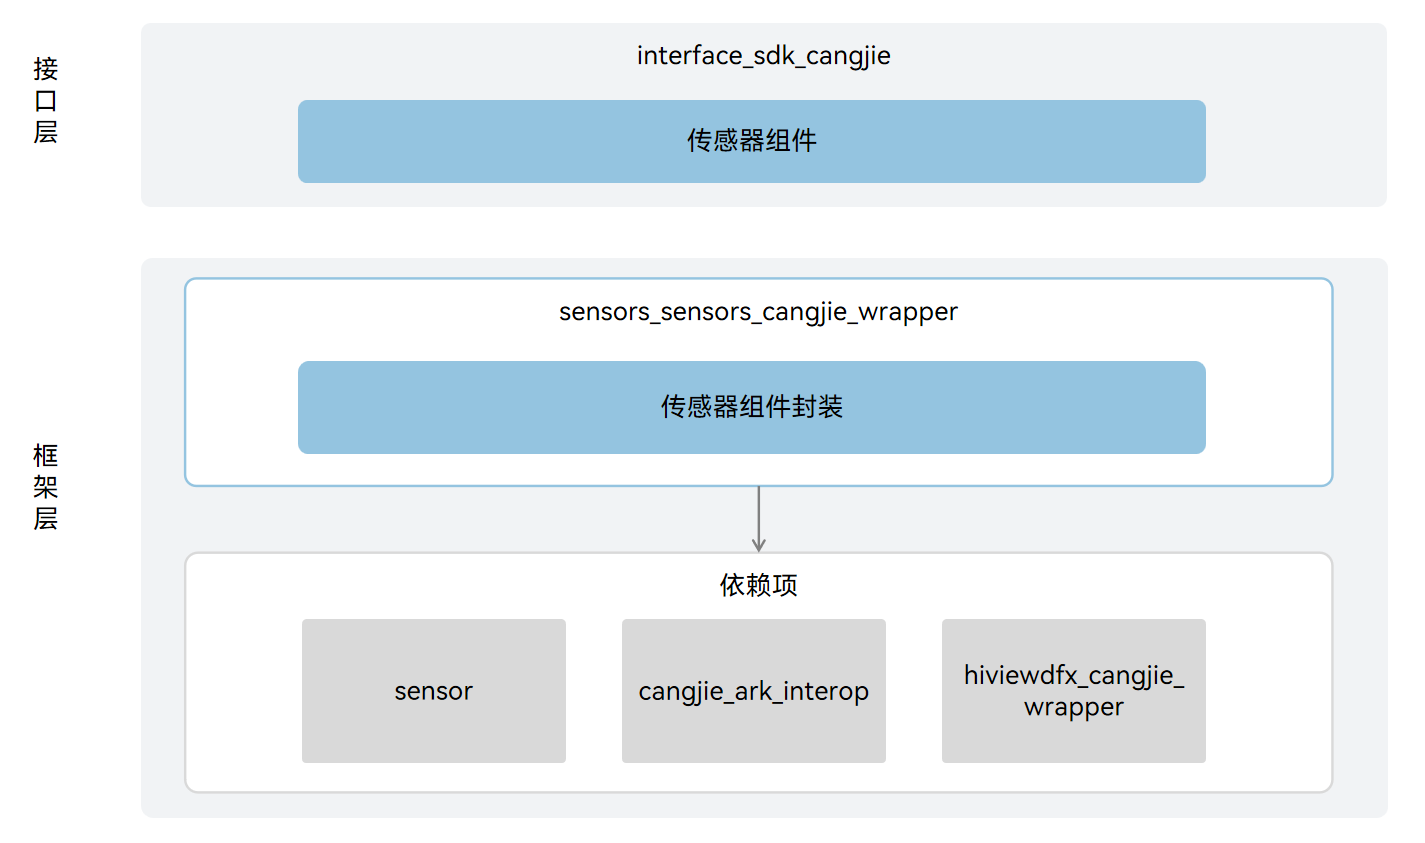
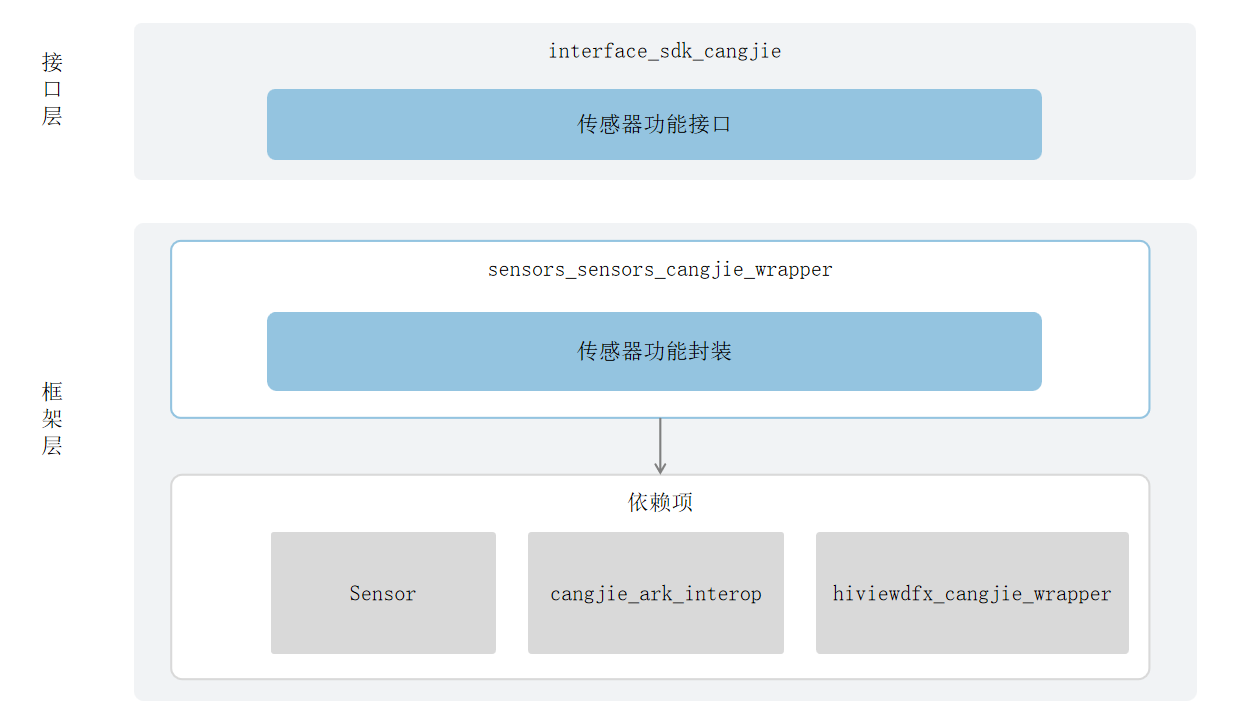
fix readme

diff --git a/README_zh.md b/README_zh.md
@@ -2,27 +2,26 @@
 
 ## 简介
 
-泛Sensor服务仓颉封装是 OpenHarmony 上面向开发者提供使用仓颉语言进行应用开发时的传感器相关能力。泛Sensor服务子系统提供了获取传感器数据的能力，包括获取传感器属性列表、订阅传感器数据、设置数据上报模式等功能。当前开发的泛Sensor服务仓颉封装接口支持standard设备。
+泛Sensor服务仓颉封装是 OpenHarmony 上面向开发者提供使用仓颉语言进行应用开发时的传感器相关能力。泛Sensor服务仓颉封装提供了获取传感器数据的能力，包括获取传感器属性列表、订阅传感器数据、设置数据上报模式等功能，且仅支持standard设备。
 
 ## 系统架构
 
-**图 1**  泛Sensor服务仓颉架构图
+**图 1**  泛Sensor服务仓颉封装架构图
 
-![泛Sensor服务仓颉架构图](figures/sensors_cangjie_wrapper_architecture.png)
+![泛Sensor服务仓颉封装架构图](figures/sensors_cangjie_wrapper_architecture.png)
 
-如架构图所示：
 
 接口层：
 
-- 传感器模块面向开发者提供订阅/取消订阅传感器数据的能力和获取设备上的传感器信息的能力。
+- 传感器功能接口面向开发者提供订阅/取消订阅传感器数据的能力和获取设备上的传感器信息的能力。
 
 框架层：
 
-- 传感器模块封装：该封装层是对传感器订阅/取消订阅功能和获取传感器信息接口功能进行仓颉封装实现。
+- 传感器功能封装：该封装层是对传感器订阅/取消订阅功能和获取传感器信息接口功能进行仓颉封装实现。
 
 架构图中的依赖部件引入说明：
 
-- sensor：负责提供传感器基础功能，封装C语言接口提供给仓颉进行互操作。
+- Sensor：负责提供传感器基础功能。
 - cangjie_ark_interop：负责提供仓颉注解类定义，用于对API进行标注，以及提供抛向用户的BusinessException异常类定义。
 - hiviewdfx_cangjie_wrapper：负责提供日志接口，用于在关键路径处打印日志。
 
@@ -51,7 +50,7 @@ base/sensors/sensors_cangjie_wrapper
 
 ## 约束
 
-* 要使用传感器的功能，设备必须具有对应的传感器器件。
+* 传感器的功能依赖设备必须具有对应的传感器器件。
 * 与ArkTS提供的API能力相比，暂不支持以下能力：
   * 获取某时刻地球上特定位置的地磁场信息。
   * 根据气压值获取海拔高度。
